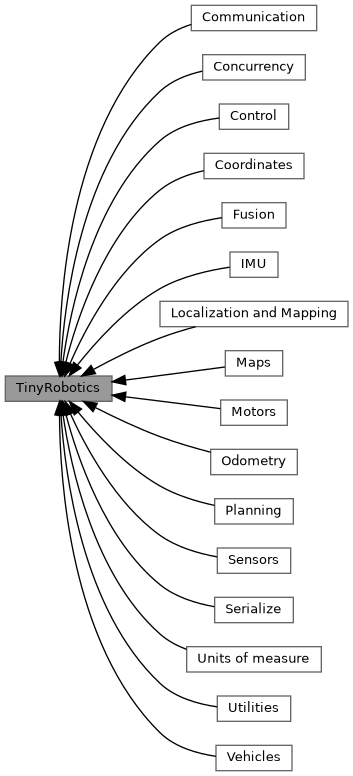
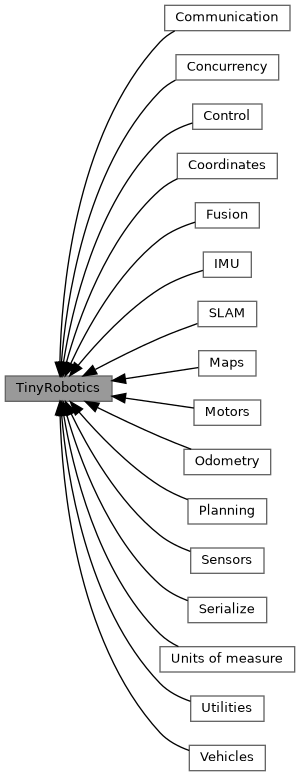
Deploying to doxygen from @ pschatzmann/TinyRobotics@19fbec97a9711e31518bff695f3106d465c54717 🚀

diff --git a/search/all_11.js b/search/all_11.js
@@ -53,7 +53,7 @@ var searchData=
   ['setongoalcallback_50',['setOnGoalCallback',['../classtinyrobotics_1_1MotionController2D.html#ae620eb48b5fcaad75334028e807074e4',1,'tinyrobotics::MotionController2D::setOnGoalCallback()'],['../classtinyrobotics_1_1MotionController3D.html#ae620eb48b5fcaad75334028e807074e4',1,'tinyrobotics::MotionController3D::setOnGoalCallback()']]],
   ['setoutput_51',['setOutput',['../classtinyrobotics_1_1MultiOutput.html#ae1220e7e3542f5a84c21fe2f7cef194c',1,'tinyrobotics::MultiOutput']]],
   ['setpath_52',['setPath',['../classtinyrobotics_1_1MotionController2D.html#af27424ecbc5deb36d6de7bf689f4b278',1,'tinyrobotics::MotionController2D']]],
-  ['setpin_53',['setPin',['../classtinyrobotics_1_1BrushlessMotor.html#a2360066b15117341cd2fcb2f47e41801',1,'tinyrobotics::BrushlessMotor::setPin()'],['../classtinyrobotics_1_1ServoMotor.html#a2360066b15117341cd2fcb2f47e41801',1,'tinyrobotics::ServoMotor::setPin()'],['../classtinyrobotics_1_1GenericMotor.html#a2360066b15117341cd2fcb2f47e41801',1,'tinyrobotics::GenericMotor::setPin()']]],
+  ['setpin_53',['setPin',['../classtinyrobotics_1_1BrushlessMotor.html#a2360066b15117341cd2fcb2f47e41801',1,'tinyrobotics::BrushlessMotor::setPin()'],['../classtinyrobotics_1_1GenericMotor.html#a2360066b15117341cd2fcb2f47e41801',1,'tinyrobotics::GenericMotor::setPin()'],['../classtinyrobotics_1_1ServoMotor.html#a2360066b15117341cd2fcb2f47e41801',1,'tinyrobotics::ServoMotor::setPin()']]],
   ['setpinelevator_54',['setPinElevator',['../classtinyrobotics_1_1AirPlane.html#a0b0d2782b9f2d7877151c28f2f0a54a2',1,'tinyrobotics::AirPlane']]],
   ['setpinrudder_55',['setPinRudder',['../classtinyrobotics_1_1AirPlane.html#ae3b70a0bf18812be704fdb26e1d21475',1,'tinyrobotics::AirPlane']]],
   ['setpins_56',['setPins',['../classtinyrobotics_1_1Quadrotor.html#a38c3d3a99c3067d1b4943f35cedd26db',1,'tinyrobotics::Quadrotor::setPins()'],['../classtinyrobotics_1_1MotorBoat.html#ac787a164213b7fbbf7232469885e220e',1,'tinyrobotics::MotorBoat::setPins()'],['../classtinyrobotics_1_1CarDifferential.html#a792e4cb2a9669dcac2985b78a1f274ab',1,'tinyrobotics::CarDifferential::setPins()'],['../classtinyrobotics_1_1CarAckerman.html#a679b569ee71fd92173c5bd96e3432355',1,'tinyrobotics::CarAckerman::setPins()'],['../classtinyrobotics_1_1GenericMotor.html#a4ec29debfa3587a7d4b74df1172375ac',1,'tinyrobotics::GenericMotor::setPins(int stepPin, int dirPin, int enablePin=-1)'],['../classtinyrobotics_1_1GenericMotor.html#a6460c640ace6f5e09db29cd079c756f4',1,'tinyrobotics::GenericMotor::setPins(int pin1, int pin2, int pwmPin=-1, int pwmFreq=20000)'],['../classtinyrobotics_1_1BrushedMotor.html#a6460c640ace6f5e09db29cd079c756f4',1,'tinyrobotics::BrushedMotor::setPins()']]],
@@ -101,21 +101,22 @@ var searchData=
   ['singlebuffer_3c_20t_20_3e_98',['SingleBuffer&lt; T &gt;',['../classtinyrobotics_1_1SingleBuffer.html',1,'tinyrobotics']]],
   ['singlebuffer_3c_20uint8_5ft_20_3e_99',['SingleBuffer&lt; uint8_t &gt;',['../classtinyrobotics_1_1SingleBuffer.html',1,'tinyrobotics']]],
   ['size_100',['size',['../classtinyrobotics_1_1PointCloud.html#a259cb5a711406a8c3e5d937eb9350cca',1,'tinyrobotics::PointCloud::size()'],['../classtinyrobotics_1_1FrontierExplorer.html#a259cb5a711406a8c3e5d937eb9350cca',1,'tinyrobotics::FrontierExplorer::size()'],['../classtinyrobotics_1_1Path.html#a259cb5a711406a8c3e5d937eb9350cca',1,'tinyrobotics::Path::size()'],['../classtinyrobotics_1_1RingBuffer.html#a7c95a45fb1a447704fc915df6cf1374c',1,'tinyrobotics::RingBuffer::size()']]],
-  ['speed_101',['speed',['../structtinyrobotics_1_1Fusion2D_1_1State2D.html#a7f7e4724cf57d59513b39c5ecc81adc8',1,'tinyrobotics::Fusion2D::State2D']]],
-  ['speed_102',['Speed',['../classtinyrobotics_1_1Speed.html',1,'tinyrobotics']]],
-  ['speedfromthrottle_103',['SpeedFromThrottle',['../classtinyrobotics_1_1SpeedFromThrottle.html',1,'tinyrobotics']]],
-  ['speedunit_104',['SpeedUnit',['../group__units.html#ga877e4fdbe9d3581dfa3431b6436b1615',1,'tinyrobotics']]],
-  ['spektrumsatellitemessagesource_105',['SpektrumSatelliteMessageSource',['../classtinyrobotics_1_1SpektrumSatelliteMessageSource.html',1,'tinyrobotics']]],
-  ['ssid_106',['ssid',['../structtinyrobotics_1_1ESPNowStreamConfig.html#a587ba0cb07f02913598610049a3bbb79',1,'tinyrobotics::ESPNowStreamConfig']]],
-  ['start_5fread_5fthreshold_5fpercent_107',['start_read_threshold_percent',['../structtinyrobotics_1_1ESPNowStreamConfig.html#a4c8a10a017dd08ed6f9624bee90c5ca0',1,'tinyrobotics::ESPNowStreamConfig']]],
-  ['state2d_108',['State2D',['../structtinyrobotics_1_1Fusion2D_1_1State2D.html',1,'tinyrobotics::Fusion2D']]],
-  ['state3d_109',['State3D',['../structtinyrobotics_1_1Fusion3D_1_1State3D.html',1,'tinyrobotics::Fusion3D']]],
-  ['steppermotor_110',['StepperMotor',['../classtinyrobotics_1_1StepperMotor.html',1,'tinyrobotics']]],
-  ['stream_111',['Stream',['../classtinyrobotics__arduino_1_1Stream.html',1,'tinyrobotics_arduino']]],
-  ['subscribe_112',['subscribe',['../classtinyrobotics_1_1MessageSource.html#ac3cabbec9037e5565dff2a698aa8dc8c',1,'tinyrobotics::MessageSource::subscribe()'],['../classtinyrobotics_1_1LocalizationAndMapping2D.html#a6f644591faf6edfeceef6b7776b331df',1,'tinyrobotics::LocalizationAndMapping2D::subscribe()']]],
-  ['switch_5ffirst_5flast_113',['SWITCH_FIRST_LAST',['../group__planning.html#gga745ea1c02850e7a0ceb57abd1ff7ea20ad8a63c5450911296b2301ce556a825a5',1,'tinyrobotics']]],
-  ['synchronizedbuffer_114',['SynchronizedBuffer',['../classtinyrobotics_1_1SynchronizedBuffer.html',1,'tinyrobotics']]],
-  ['synchronizedbufferrtos_115',['SynchronizedBufferRTOS',['../group__concurrency.html#gaf8c8076294cfef1804d5857a9e506492',1,'tinyrobotics']]],
-  ['synchronizedqueue_116',['SynchronizedQueue',['../classtinyrobotics_1_1SynchronizedQueue.html',1,'tinyrobotics']]],
-  ['synchronizedstream_117',['SynchronizedStream',['../classtinyrobotics_1_1SynchronizedStream.html',1,'tinyrobotics']]]
+  ['slam_101',['SLAM',['../group__localization.html',1,'']]],
+  ['speed_102',['speed',['../structtinyrobotics_1_1Fusion2D_1_1State2D.html#a7f7e4724cf57d59513b39c5ecc81adc8',1,'tinyrobotics::Fusion2D::State2D']]],
+  ['speed_103',['Speed',['../classtinyrobotics_1_1Speed.html',1,'tinyrobotics']]],
+  ['speedfromthrottle_104',['SpeedFromThrottle',['../classtinyrobotics_1_1SpeedFromThrottle.html',1,'tinyrobotics']]],
+  ['speedunit_105',['SpeedUnit',['../group__units.html#ga877e4fdbe9d3581dfa3431b6436b1615',1,'tinyrobotics']]],
+  ['spektrumsatellitemessagesource_106',['SpektrumSatelliteMessageSource',['../classtinyrobotics_1_1SpektrumSatelliteMessageSource.html',1,'tinyrobotics']]],
+  ['ssid_107',['ssid',['../structtinyrobotics_1_1ESPNowStreamConfig.html#a587ba0cb07f02913598610049a3bbb79',1,'tinyrobotics::ESPNowStreamConfig']]],
+  ['start_5fread_5fthreshold_5fpercent_108',['start_read_threshold_percent',['../structtinyrobotics_1_1ESPNowStreamConfig.html#a4c8a10a017dd08ed6f9624bee90c5ca0',1,'tinyrobotics::ESPNowStreamConfig']]],
+  ['state2d_109',['State2D',['../structtinyrobotics_1_1Fusion2D_1_1State2D.html',1,'tinyrobotics::Fusion2D']]],
+  ['state3d_110',['State3D',['../structtinyrobotics_1_1Fusion3D_1_1State3D.html',1,'tinyrobotics::Fusion3D']]],
+  ['steppermotor_111',['StepperMotor',['../classtinyrobotics_1_1StepperMotor.html',1,'tinyrobotics']]],
+  ['stream_112',['Stream',['../classtinyrobotics__arduino_1_1Stream.html',1,'tinyrobotics_arduino']]],
+  ['subscribe_113',['subscribe',['../classtinyrobotics_1_1MessageSource.html#ac3cabbec9037e5565dff2a698aa8dc8c',1,'tinyrobotics::MessageSource::subscribe()'],['../classtinyrobotics_1_1LocalizationAndMapping2D.html#a6f644591faf6edfeceef6b7776b331df',1,'tinyrobotics::LocalizationAndMapping2D::subscribe()']]],
+  ['switch_5ffirst_5flast_114',['SWITCH_FIRST_LAST',['../group__planning.html#gga745ea1c02850e7a0ceb57abd1ff7ea20ad8a63c5450911296b2301ce556a825a5',1,'tinyrobotics']]],
+  ['synchronizedbuffer_115',['SynchronizedBuffer',['../classtinyrobotics_1_1SynchronizedBuffer.html',1,'tinyrobotics']]],
+  ['synchronizedbufferrtos_116',['SynchronizedBufferRTOS',['../group__concurrency.html#gaf8c8076294cfef1804d5857a9e506492',1,'tinyrobotics']]],
+  ['synchronizedqueue_117',['SynchronizedQueue',['../classtinyrobotics_1_1SynchronizedQueue.html',1,'tinyrobotics']]],
+  ['synchronizedstream_118',['SynchronizedStream',['../classtinyrobotics_1_1SynchronizedStream.html',1,'tinyrobotics']]]
 ];

diff --git a/group__main.html b/group__main.html
@@ -82,23 +82,23 @@ Collaboration diagram for TinyRobotics:</div>
 <div class="dyncontent">
 <div class="center"><img src="group__main.png" border="0" usemap="#agroup____main" alt=""/></div>
 <map name="agroup____main" id="agroup____main">
-<area shape="rect" href="group__communication.html" title="Communication protocols and messaging for robotics." alt="" coords="191,5,317,31"/>
-<area shape="rect" href="group__concurrency.html" title="Concurrency and cooperative multitasking utilities." alt="" coords="203,55,305,80"/>
-<area shape="rect" href="group__control.html" title="Control algorithms and state estimation (PID, Kalman, etc.)" alt="" coords="219,104,289,129"/>
-<area shape="rect" href="group__coordinates.html" title="Coordinate systems, frames, and GPS utilities." alt="" coords="204,153,304,179"/>
-<area shape="rect" href="group__fusion.html" title="Sensor fusion algorithms and state estimation." alt="" coords="222,203,286,228"/>
-<area shape="rect" href="group__imu.html" title="Inertial Measurement Unit (IMU) abstraction and utilities." alt="" coords="230,252,278,277"/>
-<area shape="rect" href="group__localization.html" title="Simultaneous Localization and Mapping (SLAM)" alt="" coords="160,301,348,327"/>
+<area shape="rect" href="group__communication.html" title="Communication protocols and messaging for robotics." alt="" coords="165,5,290,31"/>
+<area shape="rect" href="group__concurrency.html" title="Concurrency and cooperative multitasking utilities." alt="" coords="176,55,279,80"/>
+<area shape="rect" href="group__control.html" title="Control algorithms and state estimation (PID, Kalman, etc.)" alt="" coords="193,104,262,129"/>
+<area shape="rect" href="group__coordinates.html" title="Coordinate systems, frames, and GPS utilities." alt="" coords="177,153,277,179"/>
+<area shape="rect" href="group__fusion.html" title="Sensor fusion algorithms and state estimation." alt="" coords="195,203,259,228"/>
+<area shape="rect" href="group__imu.html" title="Inertial Measurement Unit (IMU) abstraction and utilities." alt="" coords="203,252,251,277"/>
+<area shape="rect" href="group__localization.html" title="Simultaneous Localization and Mapping (SLAM)" alt="" coords="198,301,257,327"/>
 <area shape="rect" title="A powerful Robotics library (not only) for Arduino." alt="" coords="5,376,112,401"/>
-<area shape="rect" href="group__maps.html" title="Map and grid data structures." alt="" coords="225,351,283,376"/>
-<area shape="rect" href="group__motors.html" title="Motor drivers and abstractions (DC, stepper, servo)" alt="" coords="221,400,287,425"/>
-<area shape="rect" href="group__odometry.html" title="Odometry and pose estimation modules." alt="" coords="211,449,297,475"/>
-<area shape="rect" href="group__planning.html" title="Path planning and search algorithms (A*, Dijkstra, etc.)" alt="" coords="215,499,293,524"/>
-<area shape="rect" href="group__sensors.html" title="Sensor abstraction and integration." alt="" coords="217,548,291,573"/>
-<area shape="rect" href="group__serialize.html" title="Serialization and deserialization utilities." alt="" coords="215,597,293,623"/>
-<area shape="rect" href="group__units.html" title="Units of measure for robotics (distance, angle, speed, time, etc.)" alt="" coords="187,647,321,672"/>
-<area shape="rect" href="group__utils.html" title="Utility classes for logging, memory, and helpers." alt="" coords="217,696,291,721"/>
-<area shape="rect" href="group__vehicles.html" title="Vehicle models and abstractions (cars, drones, boats)" alt="" coords="216,745,292,771"/>
+<area shape="rect" href="group__maps.html" title="Map and grid data structures." alt="" coords="199,351,256,376"/>
+<area shape="rect" href="group__motors.html" title="Motor drivers and abstractions (DC, stepper, servo)" alt="" coords="194,400,261,425"/>
+<area shape="rect" href="group__odometry.html" title="Odometry and pose estimation modules." alt="" coords="184,449,271,475"/>
+<area shape="rect" href="group__planning.html" title="Path planning and search algorithms (A*, Dijkstra, etc.)" alt="" coords="188,499,267,524"/>
+<area shape="rect" href="group__sensors.html" title="Sensor abstraction and integration." alt="" coords="191,548,264,573"/>
+<area shape="rect" href="group__serialize.html" title="Serialization and deserialization utilities." alt="" coords="188,597,267,623"/>
+<area shape="rect" href="group__units.html" title="Units of measure for robotics (distance, angle, speed, time, etc.)" alt="" coords="160,647,295,672"/>
+<area shape="rect" href="group__utils.html" title="Utility classes for logging, memory, and helpers." alt="" coords="191,696,264,721"/>
+<area shape="rect" href="group__vehicles.html" title="Vehicle models and abstractions (cars, drones, boats)" alt="" coords="189,745,265,771"/>
 </map>
 </div>
 <table class="memberdecls">
@@ -122,7 +122,7 @@ Modules</h2></td></tr>
 <tr class="memitem:group__imu"><td class="memItemLeft" align="right" valign="top">&#160;</td><td class="memItemRight" valign="bottom"><a class="el" href="group__imu.html">IMU</a></td></tr>
 <tr class="memdesc:group__imu"><td class="mdescLeft">&#160;</td><td class="mdescRight">Inertial Measurement Unit (IMU) abstraction and utilities. <br /></td></tr>
 <tr class="separator:"><td class="memSeparator" colspan="2">&#160;</td></tr>
-<tr class="memitem:group__localization"><td class="memItemLeft" align="right" valign="top">&#160;</td><td class="memItemRight" valign="bottom"><a class="el" href="group__localization.html">Localization and Mapping</a></td></tr>
+<tr class="memitem:group__localization"><td class="memItemLeft" align="right" valign="top">&#160;</td><td class="memItemRight" valign="bottom"><a class="el" href="group__localization.html">SLAM</a></td></tr>
 <tr class="memdesc:group__localization"><td class="mdescLeft">&#160;</td><td class="mdescRight">Simultaneous Localization and Mapping (SLAM) <br /></td></tr>
 <tr class="separator:"><td class="memSeparator" colspan="2">&#160;</td></tr>
 <tr class="memitem:group__maps"><td class="memItemLeft" align="right" valign="top">&#160;</td><td class="memItemRight" valign="bottom"><a class="el" href="group__maps.html">Maps</a></td></tr>

diff --git a/modules.html b/modules.html
@@ -81,7 +81,7 @@ $(function() {
 <tr id="row_0_3_" class="even"><td class="entry"><span style="width:32px;display:inline-block;">&#160;</span><a class="el" href="group__coordinates.html" target="_self">Coordinates</a></td><td class="desc">Coordinate systems, frames, and GPS utilities </td></tr>
 <tr id="row_0_4_" class="odd"><td class="entry"><span style="width:32px;display:inline-block;">&#160;</span><a class="el" href="group__fusion.html" target="_self">Fusion</a></td><td class="desc">Sensor fusion algorithms and state estimation </td></tr>
 <tr id="row_0_5_" class="even"><td class="entry"><span style="width:32px;display:inline-block;">&#160;</span><a class="el" href="group__imu.html" target="_self">IMU</a></td><td class="desc">Inertial Measurement Unit (IMU) abstraction and utilities </td></tr>
-<tr id="row_0_6_" class="odd"><td class="entry"><span style="width:32px;display:inline-block;">&#160;</span><a class="el" href="group__localization.html" target="_self">Localization and Mapping</a></td><td class="desc">Simultaneous Localization and Mapping (SLAM) </td></tr>
+<tr id="row_0_6_" class="odd"><td class="entry"><span style="width:32px;display:inline-block;">&#160;</span><a class="el" href="group__localization.html" target="_self">SLAM</a></td><td class="desc">Simultaneous Localization and Mapping (SLAM) </td></tr>
 <tr id="row_0_7_" class="even"><td class="entry"><span style="width:32px;display:inline-block;">&#160;</span><a class="el" href="group__maps.html" target="_self">Maps</a></td><td class="desc">Map and grid data structures </td></tr>
 <tr id="row_0_8_" class="odd"><td class="entry"><span style="width:32px;display:inline-block;">&#160;</span><a class="el" href="group__motors.html" target="_self">Motors</a></td><td class="desc">Motor drivers and abstractions (DC, stepper, servo) </td></tr>
 <tr id="row_0_9_" class="even"><td class="entry"><span style="width:32px;display:inline-block;">&#160;</span><a class="el" href="group__odometry.html" target="_self">Odometry</a></td><td class="desc">Odometry and pose estimation modules </td></tr>

diff --git a/group__localization.html b/group__localization.html
@@ -5,7 +5,7 @@
 <meta http-equiv="X-UA-Compatible" content="IE=11"/>
 <meta name="generator" content="Doxygen 1.9.6"/>
 <meta name="viewport" content="width=device-width, initial-scale=1"/>
-<title>TinyRobotics: Localization and Mapping</title>
+<title>TinyRobotics: SLAM</title>
 <link href="tabs.css" rel="stylesheet" type="text/css"/>
 <script type="text/javascript" src="jquery.js"></script>
 <script type="text/javascript" src="dynsections.js"></script>
@@ -71,18 +71,18 @@ $(function() {
 <div class="header">
   <div class="summary">
 <a href="#nested-classes">Classes</a>  </div>
-  <div class="headertitle"><div class="title">Localization and Mapping<div class="ingroups"><a class="el" href="group__main.html">TinyRobotics</a></div></div></div>
+  <div class="headertitle"><div class="title">SLAM<div class="ingroups"><a class="el" href="group__main.html">TinyRobotics</a></div></div></div>
 </div><!--header-->
 <div class="contents">
 
 <p>Simultaneous Localization and Mapping (SLAM)  
 <a href="#details">More...</a></p>
 <div class="dynheader">
-Collaboration diagram for Localization and Mapping:</div>
+Collaboration diagram for SLAM:</div>
 <div class="dyncontent">
 <div class="center"><img src="group__localization.png" border="0" usemap="#agroup____localization" alt=""/></div>
 <map name="agroup____localization" id="agroup____localization">
-<area shape="rect" title="Simultaneous Localization and Mapping (SLAM)" alt="" coords="160,5,348,31"/>
+<area shape="rect" title="Simultaneous Localization and Mapping (SLAM)" alt="" coords="160,5,219,31"/>
 <area shape="rect" href="group__main.html" title="A powerful Robotics library (not only) for Arduino." alt="" coords="5,5,112,31"/>
 </map>
 </div>

diff --git a/search/all_a.js b/search/all_a.js
@@ -4,8 +4,7 @@ var searchData=
   ['levelpercent_1',['levelPercent',['../classtinyrobotics_1_1BaseBuffer.html#abcd92c9b245692b77908d66e3cbc7bc5',1,'tinyrobotics::BaseBuffer']]],
   ['lidar_2',['LIDAR',['../group__utils.html#ggae63373b1147a2e480cea6083c3f9dc6cad65de5dfebb084344726074547490cc4',1,'tinyrobotics']]],
   ['local_5fmaster_5fkey_3',['local_master_key',['../structtinyrobotics_1_1ESPNowStreamConfig.html#a152fcf2cd19fd062b8ee8bb3002ef57b',1,'tinyrobotics::ESPNowStreamConfig']]],
-  ['localization_20and_20mapping_4',['Localization and Mapping',['../group__localization.html',1,'']]],
-  ['localizationandmapping2d_5',['LocalizationAndMapping2D',['../classtinyrobotics_1_1LocalizationAndMapping2D.html',1,'tinyrobotics']]],
-  ['lockguard_6',['LockGuard',['../classtinyrobotics_1_1LockGuard.html',1,'tinyrobotics']]],
-  ['loggerclass_7',['LoggerClass',['../classtinyrobotics_1_1LoggerClass.html',1,'tinyrobotics']]]
+  ['localizationandmapping2d_4',['LocalizationAndMapping2D',['../classtinyrobotics_1_1LocalizationAndMapping2D.html',1,'tinyrobotics']]],
+  ['lockguard_5',['LockGuard',['../classtinyrobotics_1_1LockGuard.html',1,'tinyrobotics']]],
+  ['loggerclass_6',['LoggerClass',['../classtinyrobotics_1_1LoggerClass.html',1,'tinyrobotics']]]
 ];

diff --git a/Localization_8h_source.html b/Localization_8h_source.html
@@ -78,7 +78,7 @@ $(function() {
 <div class="contents">
 <div class="fragment"><div class="line"><a id="l00001" name="l00001"></a><span class="lineno">    1</span><span class="preprocessor">#</span><span class="preprocessor">pragma</span> <span class="preprocessor">once</span></div>
 <div class="line"><a id="l00002" name="l00002"></a><span class="lineno">    2</span> <span class="comment">/**</span></div>
-<div class="line"><span class="lineno">    3</span><span class="comment"> * @defgroup localization Localization and Mapping</span></div>
+<div class="line"><span class="lineno">    3</span><span class="comment"> * @defgroup localization SLAM</span></div>
 <div class="line"><span class="lineno">    4</span><span class="comment"> * @ingroup main</span></div>
 <div class="line"><span class="lineno">    5</span><span class="comment"> * @brief Simultaneous Localization and Mapping (SLAM)</span></div>
 <div class="line"><span class="lineno">    6</span><span class="comment"> */</span></div>

diff --git a/classtinyrobotics_1_1LocalizationAndMapping2D.html b/classtinyrobotics_1_1LocalizationAndMapping2D.html
@@ -79,7 +79,7 @@ $(function() {
 <a href="#pro-static-methods">Static Protected Member Functions</a> &#124;
 <a href="#pro-attribs">Protected Attributes</a> &#124;
 <a href="classtinyrobotics_1_1LocalizationAndMapping2D-members.html">List of all members</a>  </div>
-  <div class="headertitle"><div class="title">LocalizationAndMapping2D&lt; T &gt; Class Template Reference<div class="ingroups"><a class="el" href="group__main.html">TinyRobotics</a> &raquo; <a class="el" href="group__localization.html">Localization and Mapping</a></div></div></div>
+  <div class="headertitle"><div class="title">LocalizationAndMapping2D&lt; T &gt; Class Template Reference<div class="ingroups"><a class="el" href="group__main.html">TinyRobotics</a> &raquo; <a class="el" href="group__localization.html">SLAM</a></div></div></div>
 </div><!--header-->
 <div class="contents">
 

diff --git a/search/groups_6.js b/search/groups_6.js
@@ -1,4 +1,6 @@
 var searchData=
 [
-  ['planning_0',['Planning',['../group__planning.html',1,'']]]
+  ['sensors_0',['Sensors',['../group__sensors.html',1,'']]],
+  ['serialize_1',['Serialize',['../group__serialize.html',1,'']]],
+  ['slam_2',['SLAM',['../group__localization.html',1,'']]]
 ];

diff --git a/search/groups_3.js b/search/groups_3.js
@@ -1,4 +1,5 @@
 var searchData=
 [
-  ['localization_20and_20mapping_0',['Localization and Mapping',['../group__localization.html',1,'']]]
+  ['maps_0',['Maps',['../group__maps.html',1,'']]],
+  ['motors_1',['Motors',['../group__motors.html',1,'']]]
 ];

diff --git a/search/groups_8.js b/search/groups_8.js
@@ -1,4 +1,5 @@
 var searchData=
 [
-  ['tinyrobotics_0',['TinyRobotics',['../group__main.html',1,'']]]
+  ['units_20of_20measure_0',['Units of measure',['../group__units.html',1,'']]],
+  ['utilities_1',['Utilities',['../group__utils.html',1,'']]]
 ];

diff --git a/search/groups_9.js b/search/groups_9.js
@@ -1,5 +1,4 @@
 var searchData=
 [
-  ['units_20of_20measure_0',['Units of measure',['../group__units.html',1,'']]],
-  ['utilities_1',['Utilities',['../group__utils.html',1,'']]]
+  ['vehicles_0',['Vehicles',['../group__vehicles.html',1,'']]]
 ];

diff --git a/search/groups_7.js b/search/groups_7.js
@@ -1,5 +1,4 @@
 var searchData=
 [
-  ['sensors_0',['Sensors',['../group__sensors.html',1,'']]],
-  ['serialize_1',['Serialize',['../group__serialize.html',1,'']]]
+  ['tinyrobotics_0',['TinyRobotics',['../group__main.html',1,'']]]
 ];
